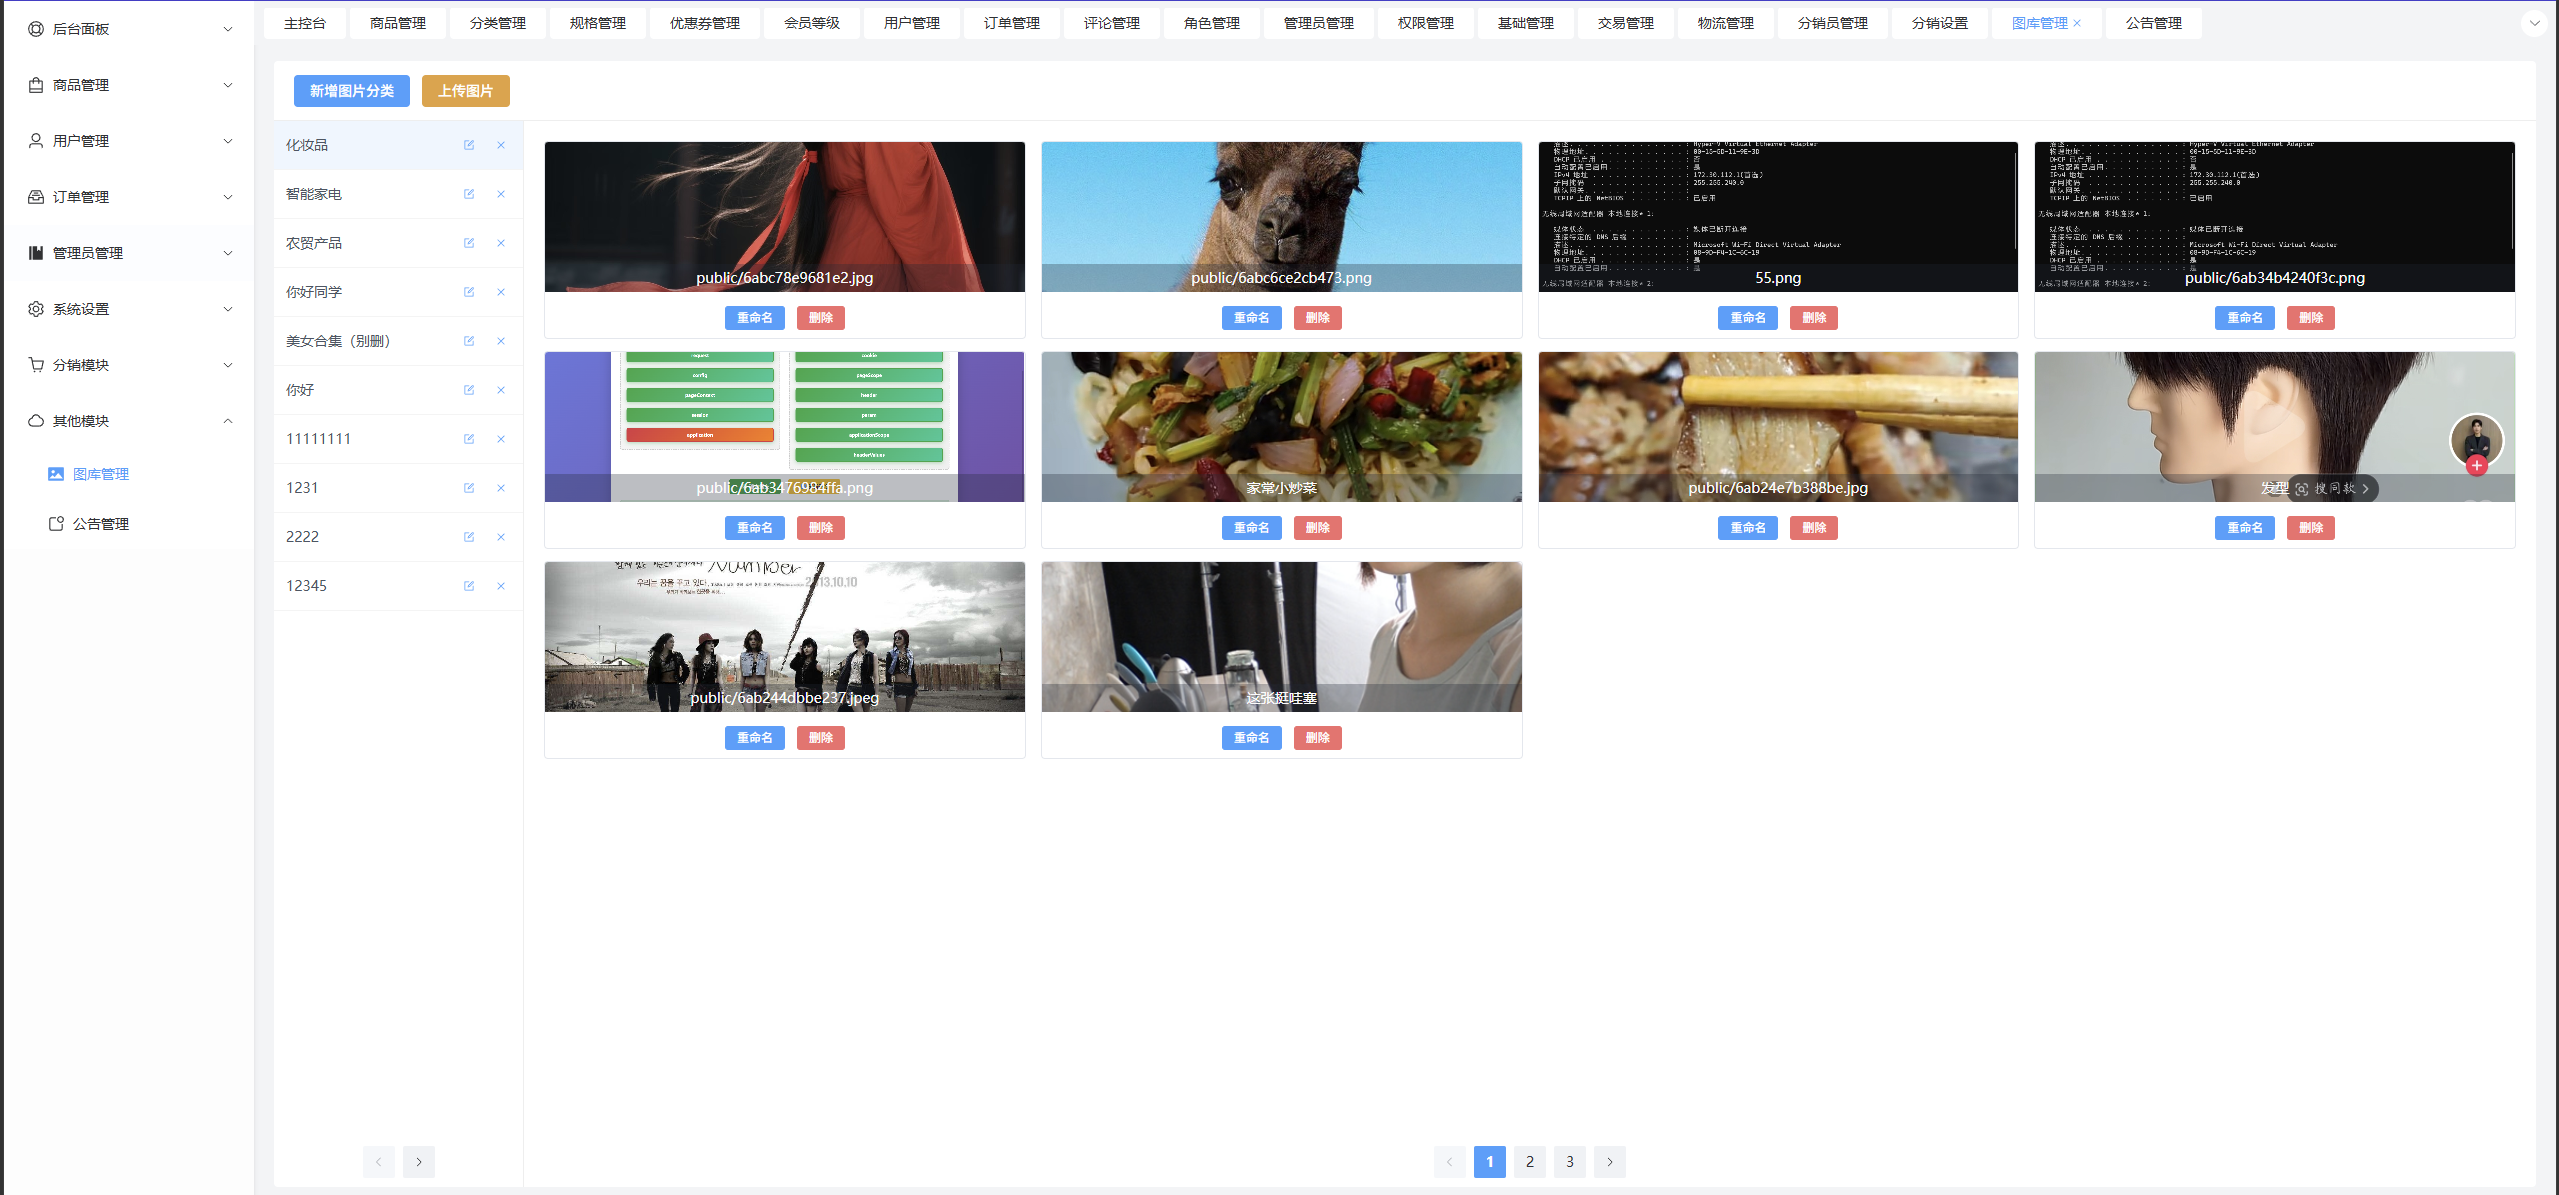
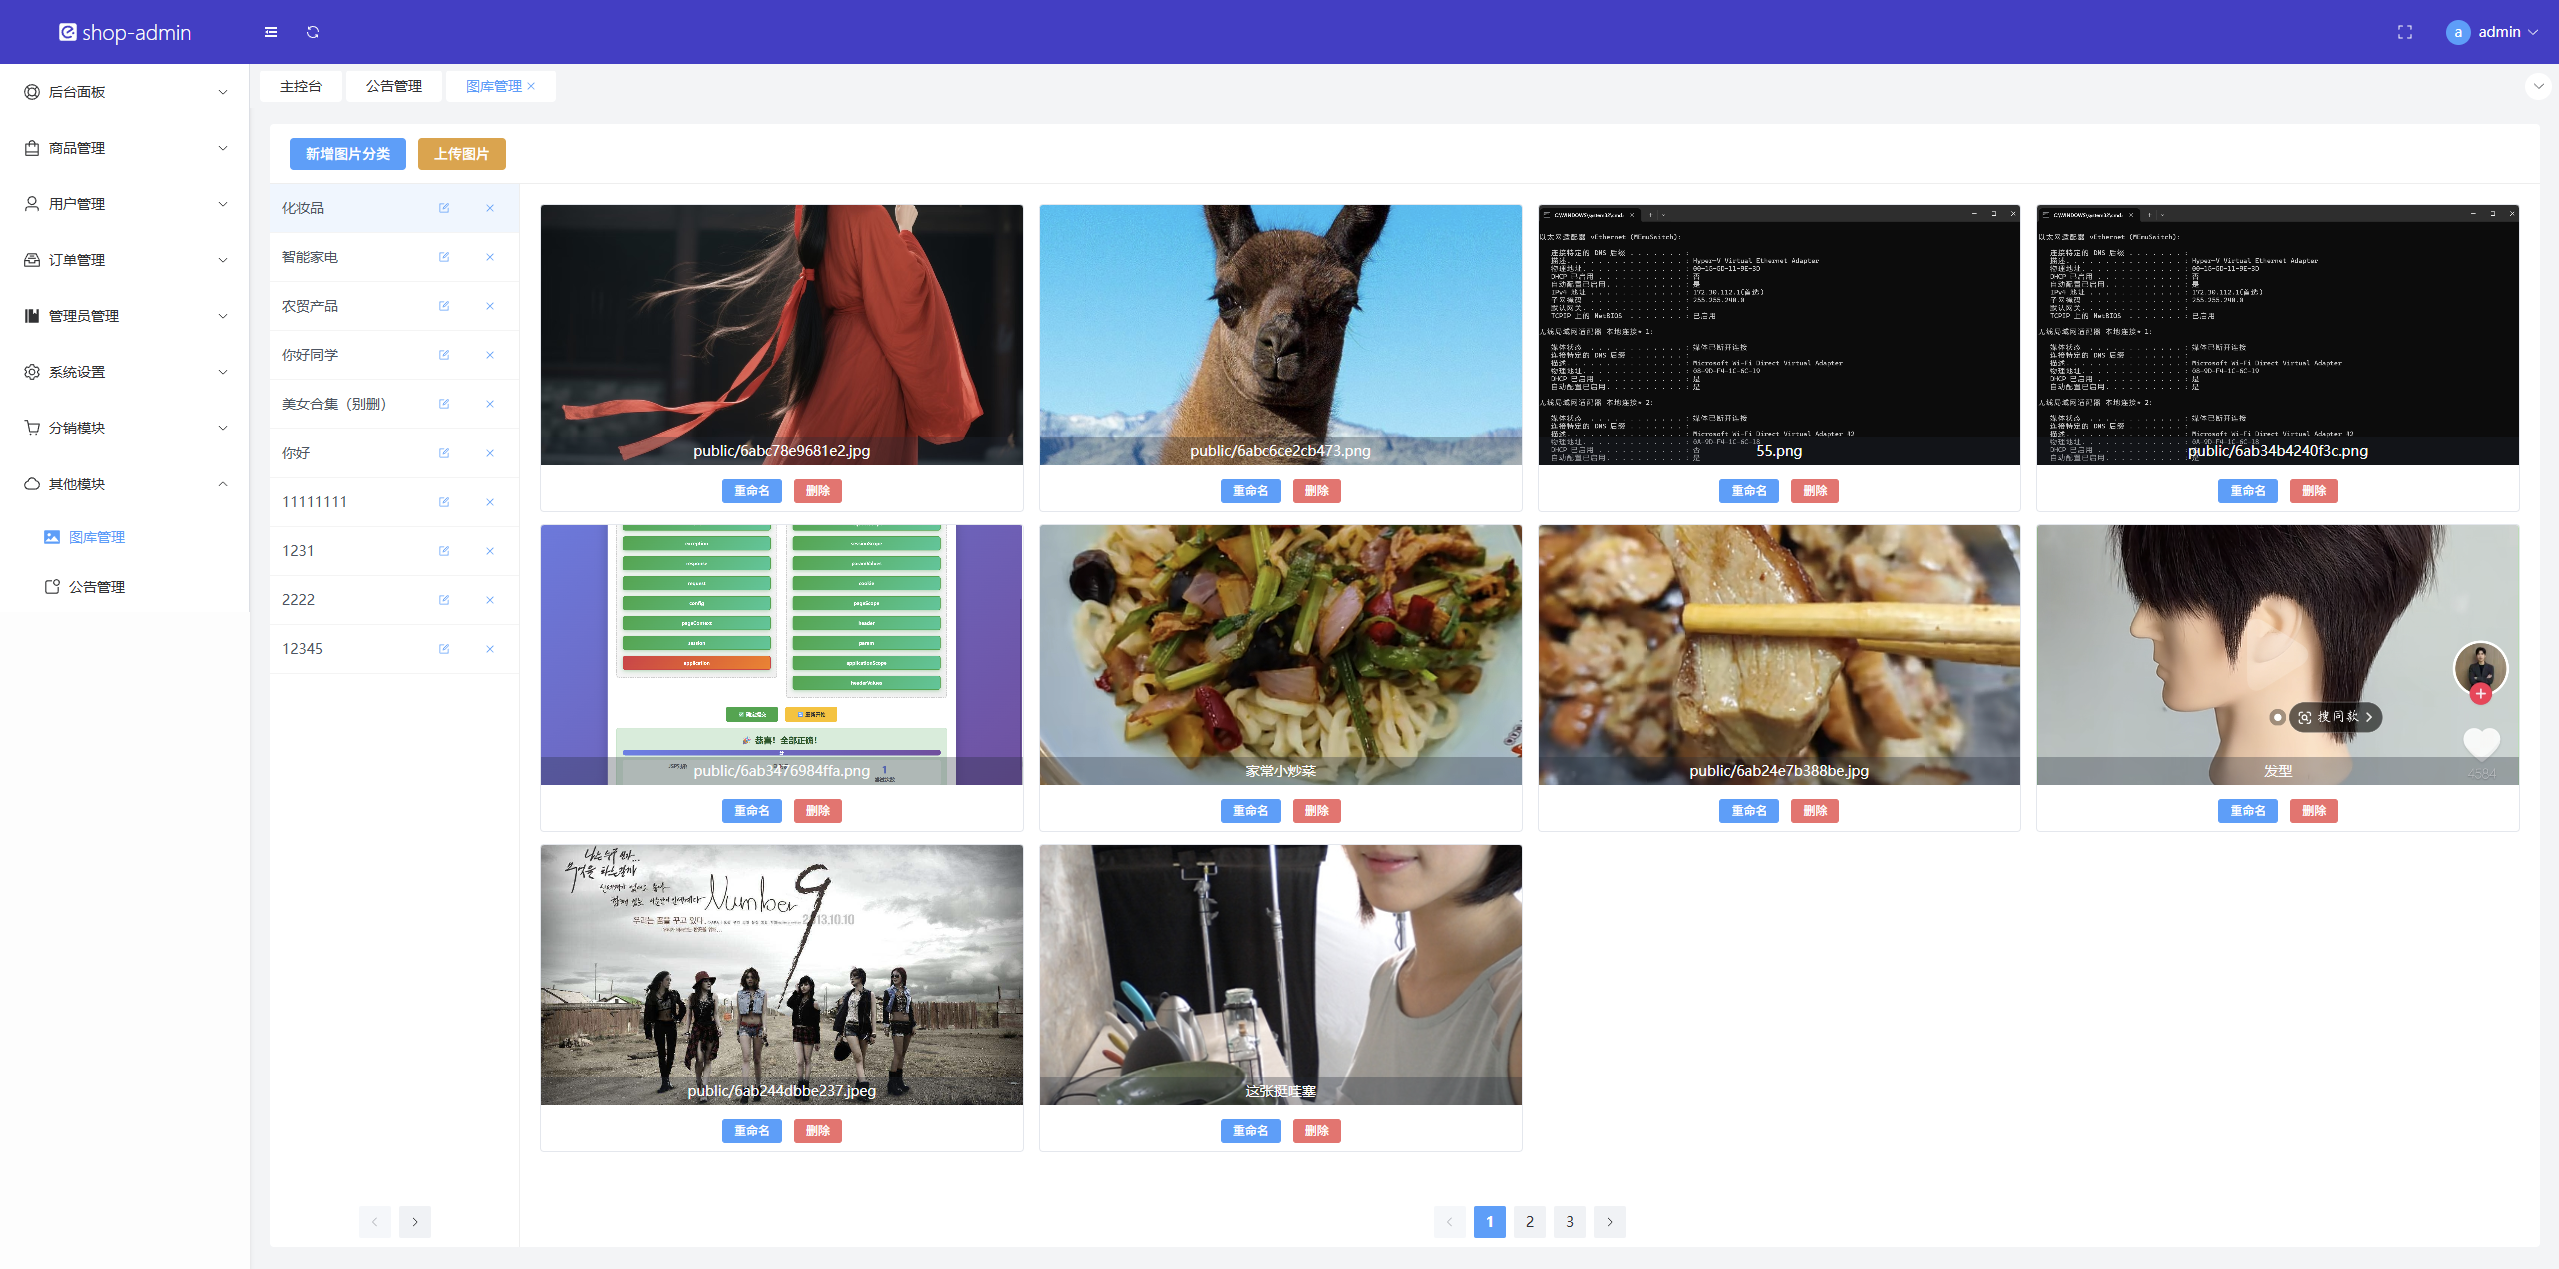
调整了图库管理的图片的高度

diff --git a/src/components/ImagePanel.vue b/src/components/ImagePanel.vue
@@ -67,9 +67,9 @@
                 <el-row v-else :gutter="15" style="padding: 20px;">
                     <div v-if="list_main.length == 0" class=" p-5 text-xl" style="text-align: center;width: 100%;">没有找到图片</div>
                     <el-col :span="6" :offset="0" v-for="item in list_main" :key="item.id" class="mb-3"
-                        style="min-width: 150px;">
+                        style="min-width: 180px;">
                         <el-card shadow="hover" :body-style="{ padding: '0px' }" class="relative" :class="{'border-blue-500':item.checked}">
-                            <el-image :src="item.url" fit="cover" style="height: 150px;width: 100%;"
+                            <el-image :src="item.url" fit="cover" style="height: 260px;width: 100%;"
                                 :preview-src-list="[item.url]" show-progress :initial-index="0"></el-image>
                             <div class="image-title">{{ item.name }}</div>
                             <div class="flex justify-center items-center p-2">
@@ -366,7 +366,7 @@ defineExpose({ formDrawerRef, form, drawerTitle , active ,current_page_main,getD
 .image-title {
     @apply bg-gray-800 bg-opacity-30 text-sm px-2 py-1 truncate text-light-100;
     position: absolute;
-    top: 122px;
+    bottom: 46px;
     left: 0;
     right: 0;
     text-align: center;
